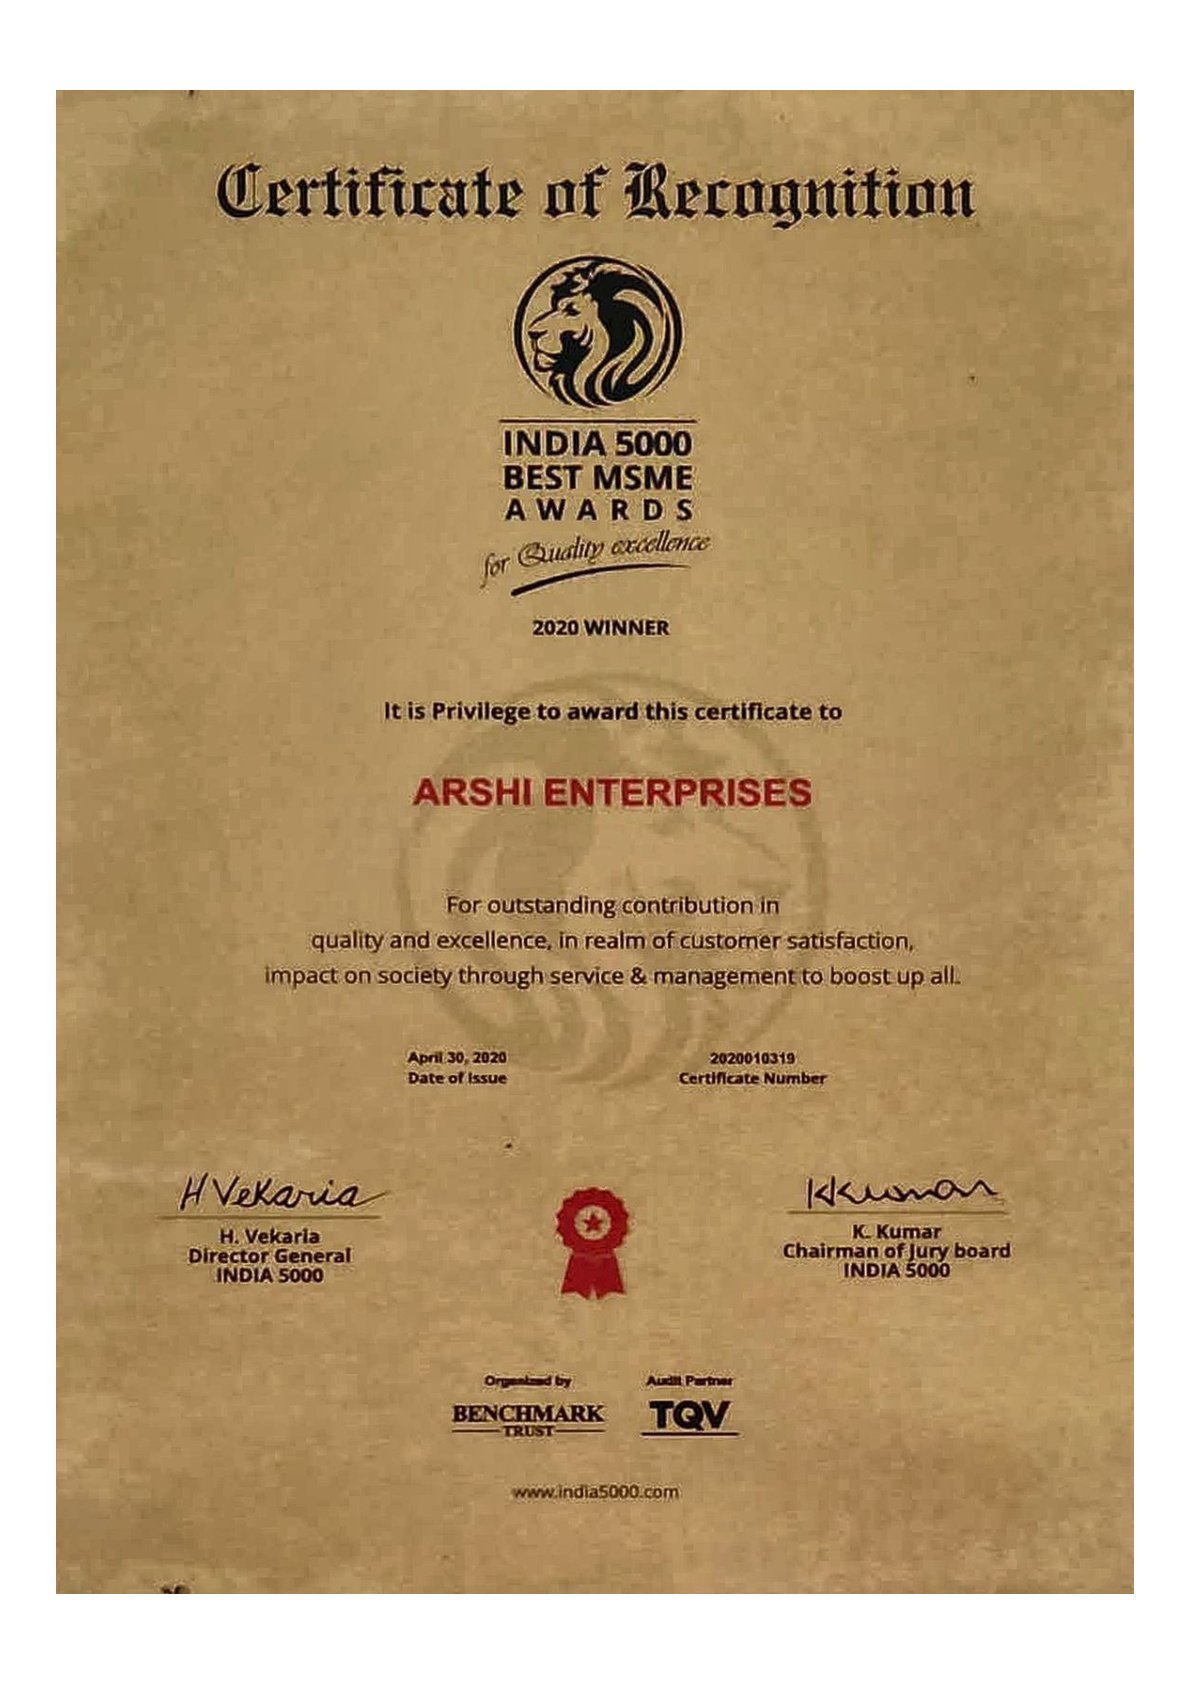
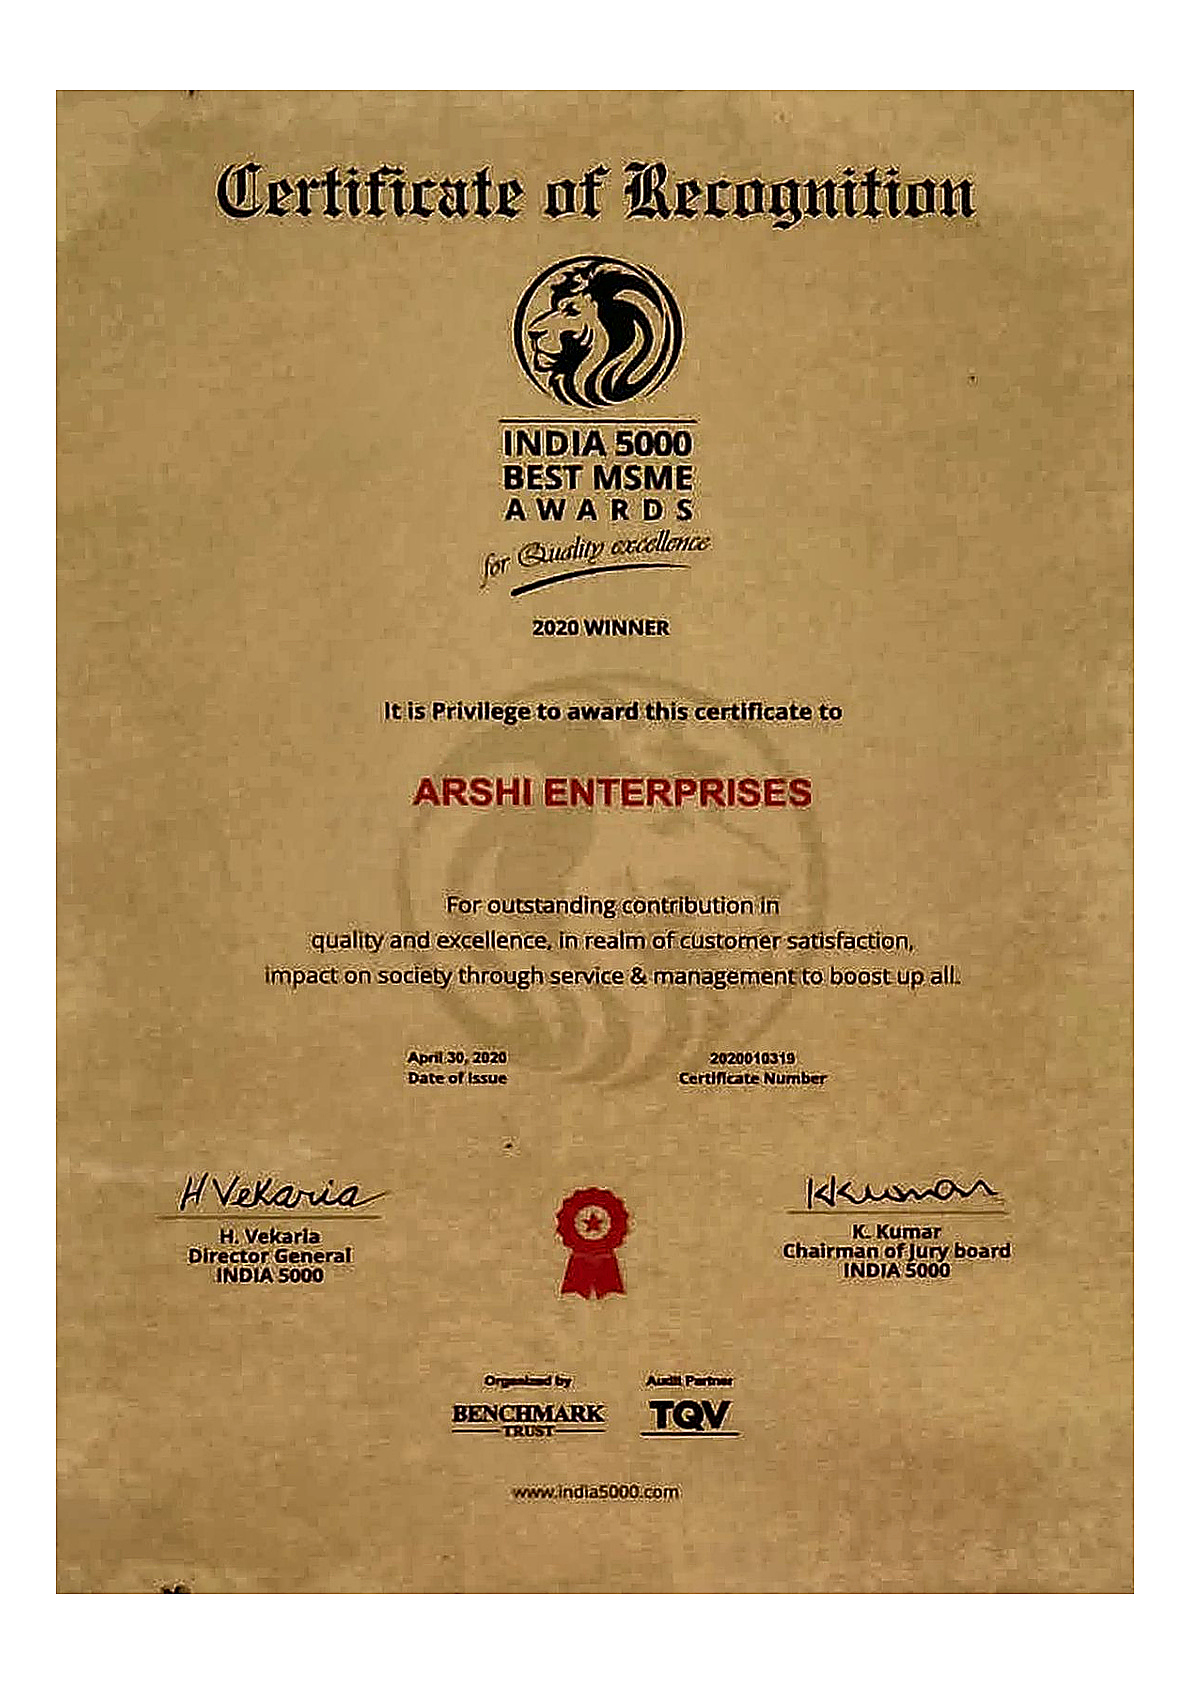
fix: enhance certificate to ultra HD 2K resolution, remove milky glare veil, and optimize crisp text typography

diff --git a/certificate-3d.html b/certificate-3d.html
@@ -17,6 +17,8 @@ html, body {
   align-items: center;
   justify-content: center;
   font-family: system-ui, -apple-system, sans-serif;
+  -webkit-font-smoothing: antialiased;
+  -moz-osx-font-smoothing: grayscale;
 }
 .scene {
   perspective: 1400px;
@@ -39,6 +41,9 @@ html, body {
   touch-action: none;
   cursor: grab;
   background: transparent;
+  transform: translateZ(0);
+  -webkit-backface-visibility: hidden;
+  backface-visibility: hidden;
 }
 .card:active, .card.active {
   transition: transform 0.05s linear, box-shadow 0.15s ease;
@@ -57,6 +62,7 @@ html, body {
   border: 1px solid rgba(0, 0, 0, 0.1);
   background: #ffffff;
   transition: box-shadow 0.3s ease;
+  transform: translateZ(0);
 }
 .card:hover .card-inner, .card.active .card-inner {
   box-shadow: 0 24px 50px -8px rgba(0, 0, 0, 0.28), 0 8px 20px rgba(0, 0, 0, 0.12);
@@ -71,19 +77,25 @@ html, body {
   -webkit-user-drag: none;
   user-select: none;
   pointer-events: none;
+  /* Crystal Clear HD Rendering */
+  image-rendering: -webkit-optimize-contrast;
+  image-rendering: high-quality;
+  transform: translateZ(0);
+  -webkit-backface-visibility: hidden;
+  backface-visibility: hidden;
 }
+/* Subtle edge shine that NEVER obscures or blurs the text */
 .glare {
   position: absolute;
   inset: 0;
   border-radius: 12px;
   pointer-events: none;
-  background: radial-gradient(circle at var(--gx, 50%) var(--gy, 50%), rgba(255, 255, 255, 0.6) 0%, rgba(255, 255, 255, 0) 65%);
-  opacity: 0.18;
+  background: radial-gradient(circle at var(--gx, 50%) var(--gy, 50%), rgba(251, 191, 36, 0.15) 0%, rgba(255, 255, 255, 0.05) 40%, transparent 70%);
+  opacity: 0.2;
   transition: opacity 0.3s;
-  mix-blend-mode: overlay;
 }
 .card.active .glare, .card:hover .glare {
-  opacity: 0.8;
+  opacity: 0.35;
 }
 </style>
 </head>
@@ -96,6 +108,7 @@ html, body {
         src="assets/images/award-bw-businessworld-2021.jpg"
         onerror="if(!this.tried){this.tried=true;this.src='/assets/images/award-bw-businessworld-2021.jpg';}"
         loading="eager"
+        decoding="sync"
       />
       <div class="glare"></div>
     </div>
@@ -120,7 +133,7 @@ html, body {
     var ry = (x - 0.5) * 2 * MAX;
     var rx = -(y - 0.5) * 2 * MAX;
     // Enhanced hover / cursor full view zoom scale
-    c.style.transform = 'rotateX(' + rx + 'deg) rotateY(' + ry + 'deg) scale3d(1.08, 1.08, 1.08)';
+    c.style.transform = 'rotateX(' + rx + 'deg) rotateY(' + ry + 'deg) scale3d(1.06, 1.06, 1.06) translateZ(0)';
     if(g) {
       g.style.setProperty('--gx', (x * 100) + '%');
       g.style.setProperty('--gy', (y * 100) + '%');
@@ -130,7 +143,7 @@ html, body {
   function reset() {
     isInteracting = false;
     c.classList.remove('active');
-    c.style.transform = '';
+    c.style.transform = 'translateZ(0)';
   }
   
   c.addEventListener('pointerdown', function(e){
@@ -156,7 +169,7 @@ html, body {
       autoAngle += 0.025;
       var idleRx = Math.sin(autoAngle) * 3.2;
       var idleRy = Math.cos(autoAngle * 0.8) * 4.5;
-      c.style.transform = 'rotateX(' + idleRx + 'deg) rotateY(' + idleRy + 'deg) scale3d(1, 1, 1)';
+      c.style.transform = 'rotateX(' + idleRx + 'deg) rotateY(' + idleRy + 'deg) scale3d(1, 1, 1) translateZ(0)';
       if(g) {
         var gx = 50 + idleRy * 3;
         var gy = 50 + idleRx * 3;

diff --git a/frontend/certificate-3d.html b/frontend/certificate-3d.html
@@ -17,6 +17,8 @@ html, body {
   align-items: center;
   justify-content: center;
   font-family: system-ui, -apple-system, sans-serif;
+  -webkit-font-smoothing: antialiased;
+  -moz-osx-font-smoothing: grayscale;
 }
 .scene {
   perspective: 1400px;
@@ -39,6 +41,9 @@ html, body {
   touch-action: none;
   cursor: grab;
   background: transparent;
+  transform: translateZ(0);
+  -webkit-backface-visibility: hidden;
+  backface-visibility: hidden;
 }
 .card:active, .card.active {
   transition: transform 0.05s linear, box-shadow 0.15s ease;
@@ -57,6 +62,7 @@ html, body {
   border: 1px solid rgba(0, 0, 0, 0.1);
   background: #ffffff;
   transition: box-shadow 0.3s ease;
+  transform: translateZ(0);
 }
 .card:hover .card-inner, .card.active .card-inner {
   box-shadow: 0 24px 50px -8px rgba(0, 0, 0, 0.28), 0 8px 20px rgba(0, 0, 0, 0.12);
@@ -71,19 +77,25 @@ html, body {
   -webkit-user-drag: none;
   user-select: none;
   pointer-events: none;
+  /* Crystal Clear HD Rendering */
+  image-rendering: -webkit-optimize-contrast;
+  image-rendering: high-quality;
+  transform: translateZ(0);
+  -webkit-backface-visibility: hidden;
+  backface-visibility: hidden;
 }
+/* Subtle edge shine that NEVER obscures or blurs the text */
 .glare {
   position: absolute;
   inset: 0;
   border-radius: 12px;
   pointer-events: none;
-  background: radial-gradient(circle at var(--gx, 50%) var(--gy, 50%), rgba(255, 255, 255, 0.6) 0%, rgba(255, 255, 255, 0) 65%);
-  opacity: 0.18;
+  background: radial-gradient(circle at var(--gx, 50%) var(--gy, 50%), rgba(251, 191, 36, 0.15) 0%, rgba(255, 255, 255, 0.05) 40%, transparent 70%);
+  opacity: 0.2;
   transition: opacity 0.3s;
-  mix-blend-mode: overlay;
 }
 .card.active .glare, .card:hover .glare {
-  opacity: 0.8;
+  opacity: 0.35;
 }
 </style>
 </head>
@@ -96,6 +108,7 @@ html, body {
         src="assets/images/award-bw-businessworld-2021.jpg"
         onerror="if(!this.tried){this.tried=true;this.src='/assets/images/award-bw-businessworld-2021.jpg';}"
         loading="eager"
+        decoding="sync"
       />
       <div class="glare"></div>
     </div>
@@ -120,7 +133,7 @@ html, body {
     var ry = (x - 0.5) * 2 * MAX;
     var rx = -(y - 0.5) * 2 * MAX;
     // Enhanced hover / cursor full view zoom scale
-    c.style.transform = 'rotateX(' + rx + 'deg) rotateY(' + ry + 'deg) scale3d(1.08, 1.08, 1.08)';
+    c.style.transform = 'rotateX(' + rx + 'deg) rotateY(' + ry + 'deg) scale3d(1.06, 1.06, 1.06) translateZ(0)';
     if(g) {
       g.style.setProperty('--gx', (x * 100) + '%');
       g.style.setProperty('--gy', (y * 100) + '%');
@@ -130,7 +143,7 @@ html, body {
   function reset() {
     isInteracting = false;
     c.classList.remove('active');
-    c.style.transform = '';
+    c.style.transform = 'translateZ(0)';
   }
   
   c.addEventListener('pointerdown', function(e){
@@ -156,7 +169,7 @@ html, body {
       autoAngle += 0.025;
       var idleRx = Math.sin(autoAngle) * 3.2;
       var idleRy = Math.cos(autoAngle * 0.8) * 4.5;
-      c.style.transform = 'rotateX(' + idleRx + 'deg) rotateY(' + idleRy + 'deg) scale3d(1, 1, 1)';
+      c.style.transform = 'rotateX(' + idleRx + 'deg) rotateY(' + idleRy + 'deg) scale3d(1, 1, 1) translateZ(0)';
       if(g) {
         var gx = 50 + idleRy * 3;
         var gy = 50 + idleRx * 3;

diff --git a/frontend/public/certificate-3d.html b/frontend/public/certificate-3d.html
@@ -17,6 +17,8 @@ html, body {
   align-items: center;
   justify-content: center;
   font-family: system-ui, -apple-system, sans-serif;
+  -webkit-font-smoothing: antialiased;
+  -moz-osx-font-smoothing: grayscale;
 }
 .scene {
   perspective: 1400px;
@@ -39,6 +41,9 @@ html, body {
   touch-action: none;
   cursor: grab;
   background: transparent;
+  transform: translateZ(0);
+  -webkit-backface-visibility: hidden;
+  backface-visibility: hidden;
 }
 .card:active, .card.active {
   transition: transform 0.05s linear, box-shadow 0.15s ease;
@@ -57,6 +62,7 @@ html, body {
   border: 1px solid rgba(0, 0, 0, 0.1);
   background: #ffffff;
   transition: box-shadow 0.3s ease;
+  transform: translateZ(0);
 }
 .card:hover .card-inner, .card.active .card-inner {
   box-shadow: 0 24px 50px -8px rgba(0, 0, 0, 0.28), 0 8px 20px rgba(0, 0, 0, 0.12);
@@ -71,19 +77,25 @@ html, body {
   -webkit-user-drag: none;
   user-select: none;
   pointer-events: none;
+  /* Crystal Clear HD Rendering */
+  image-rendering: -webkit-optimize-contrast;
+  image-rendering: high-quality;
+  transform: translateZ(0);
+  -webkit-backface-visibility: hidden;
+  backface-visibility: hidden;
 }
+/* Subtle edge shine that NEVER obscures or blurs the text */
 .glare {
   position: absolute;
   inset: 0;
   border-radius: 12px;
   pointer-events: none;
-  background: radial-gradient(circle at var(--gx, 50%) var(--gy, 50%), rgba(255, 255, 255, 0.6) 0%, rgba(255, 255, 255, 0) 65%);
-  opacity: 0.18;
+  background: radial-gradient(circle at var(--gx, 50%) var(--gy, 50%), rgba(251, 191, 36, 0.15) 0%, rgba(255, 255, 255, 0.05) 40%, transparent 70%);
+  opacity: 0.2;
   transition: opacity 0.3s;
-  mix-blend-mode: overlay;
 }
 .card.active .glare, .card:hover .glare {
-  opacity: 0.8;
+  opacity: 0.35;
 }
 </style>
 </head>
@@ -96,6 +108,7 @@ html, body {
         src="assets/images/award-bw-businessworld-2021.jpg"
         onerror="if(!this.tried){this.tried=true;this.src='/assets/images/award-bw-businessworld-2021.jpg';}"
         loading="eager"
+        decoding="sync"
       />
       <div class="glare"></div>
     </div>
@@ -120,7 +133,7 @@ html, body {
     var ry = (x - 0.5) * 2 * MAX;
     var rx = -(y - 0.5) * 2 * MAX;
     // Enhanced hover / cursor full view zoom scale
-    c.style.transform = 'rotateX(' + rx + 'deg) rotateY(' + ry + 'deg) scale3d(1.08, 1.08, 1.08)';
+    c.style.transform = 'rotateX(' + rx + 'deg) rotateY(' + ry + 'deg) scale3d(1.06, 1.06, 1.06) translateZ(0)';
     if(g) {
       g.style.setProperty('--gx', (x * 100) + '%');
       g.style.setProperty('--gy', (y * 100) + '%');
@@ -130,7 +143,7 @@ html, body {
   function reset() {
     isInteracting = false;
     c.classList.remove('active');
-    c.style.transform = '';
+    c.style.transform = 'translateZ(0)';
   }
   
   c.addEventListener('pointerdown', function(e){
@@ -156,7 +169,7 @@ html, body {
       autoAngle += 0.025;
       var idleRx = Math.sin(autoAngle) * 3.2;
       var idleRy = Math.cos(autoAngle * 0.8) * 4.5;
-      c.style.transform = 'rotateX(' + idleRx + 'deg) rotateY(' + idleRy + 'deg) scale3d(1, 1, 1)';
+      c.style.transform = 'rotateX(' + idleRx + 'deg) rotateY(' + idleRy + 'deg) scale3d(1, 1, 1) translateZ(0)';
       if(g) {
         var gx = 50 + idleRy * 3;
         var gy = 50 + idleRx * 3;
